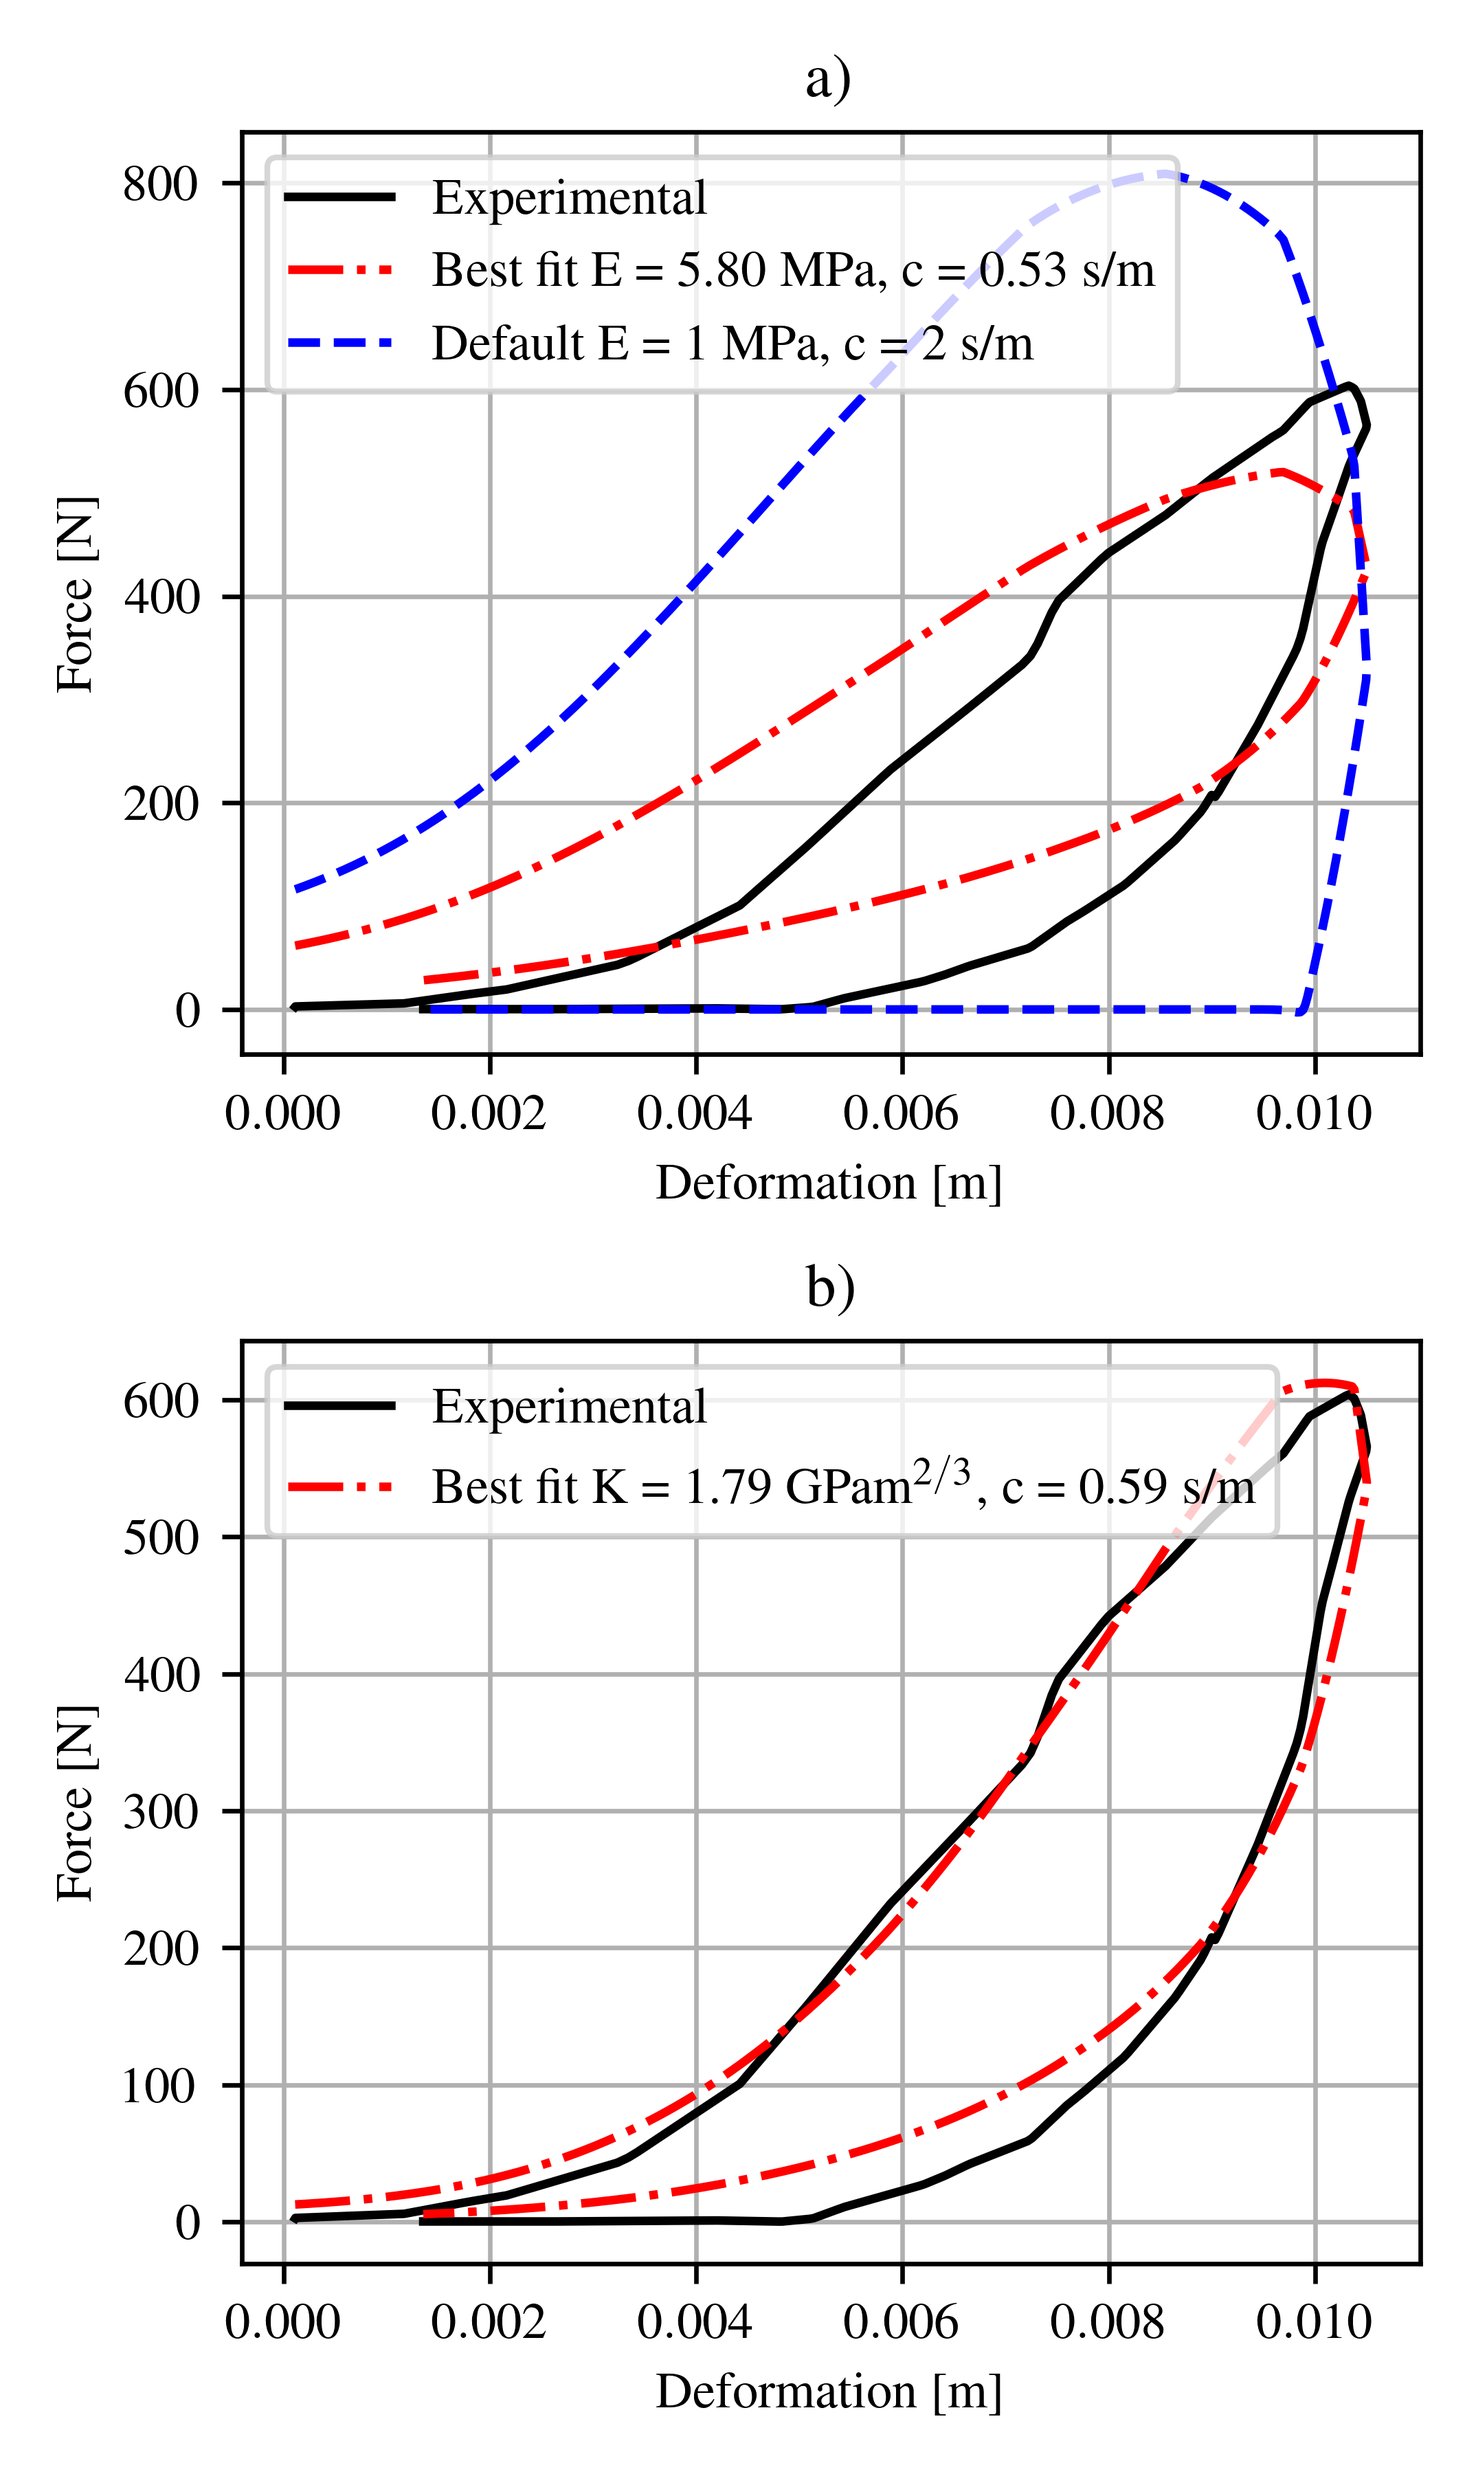
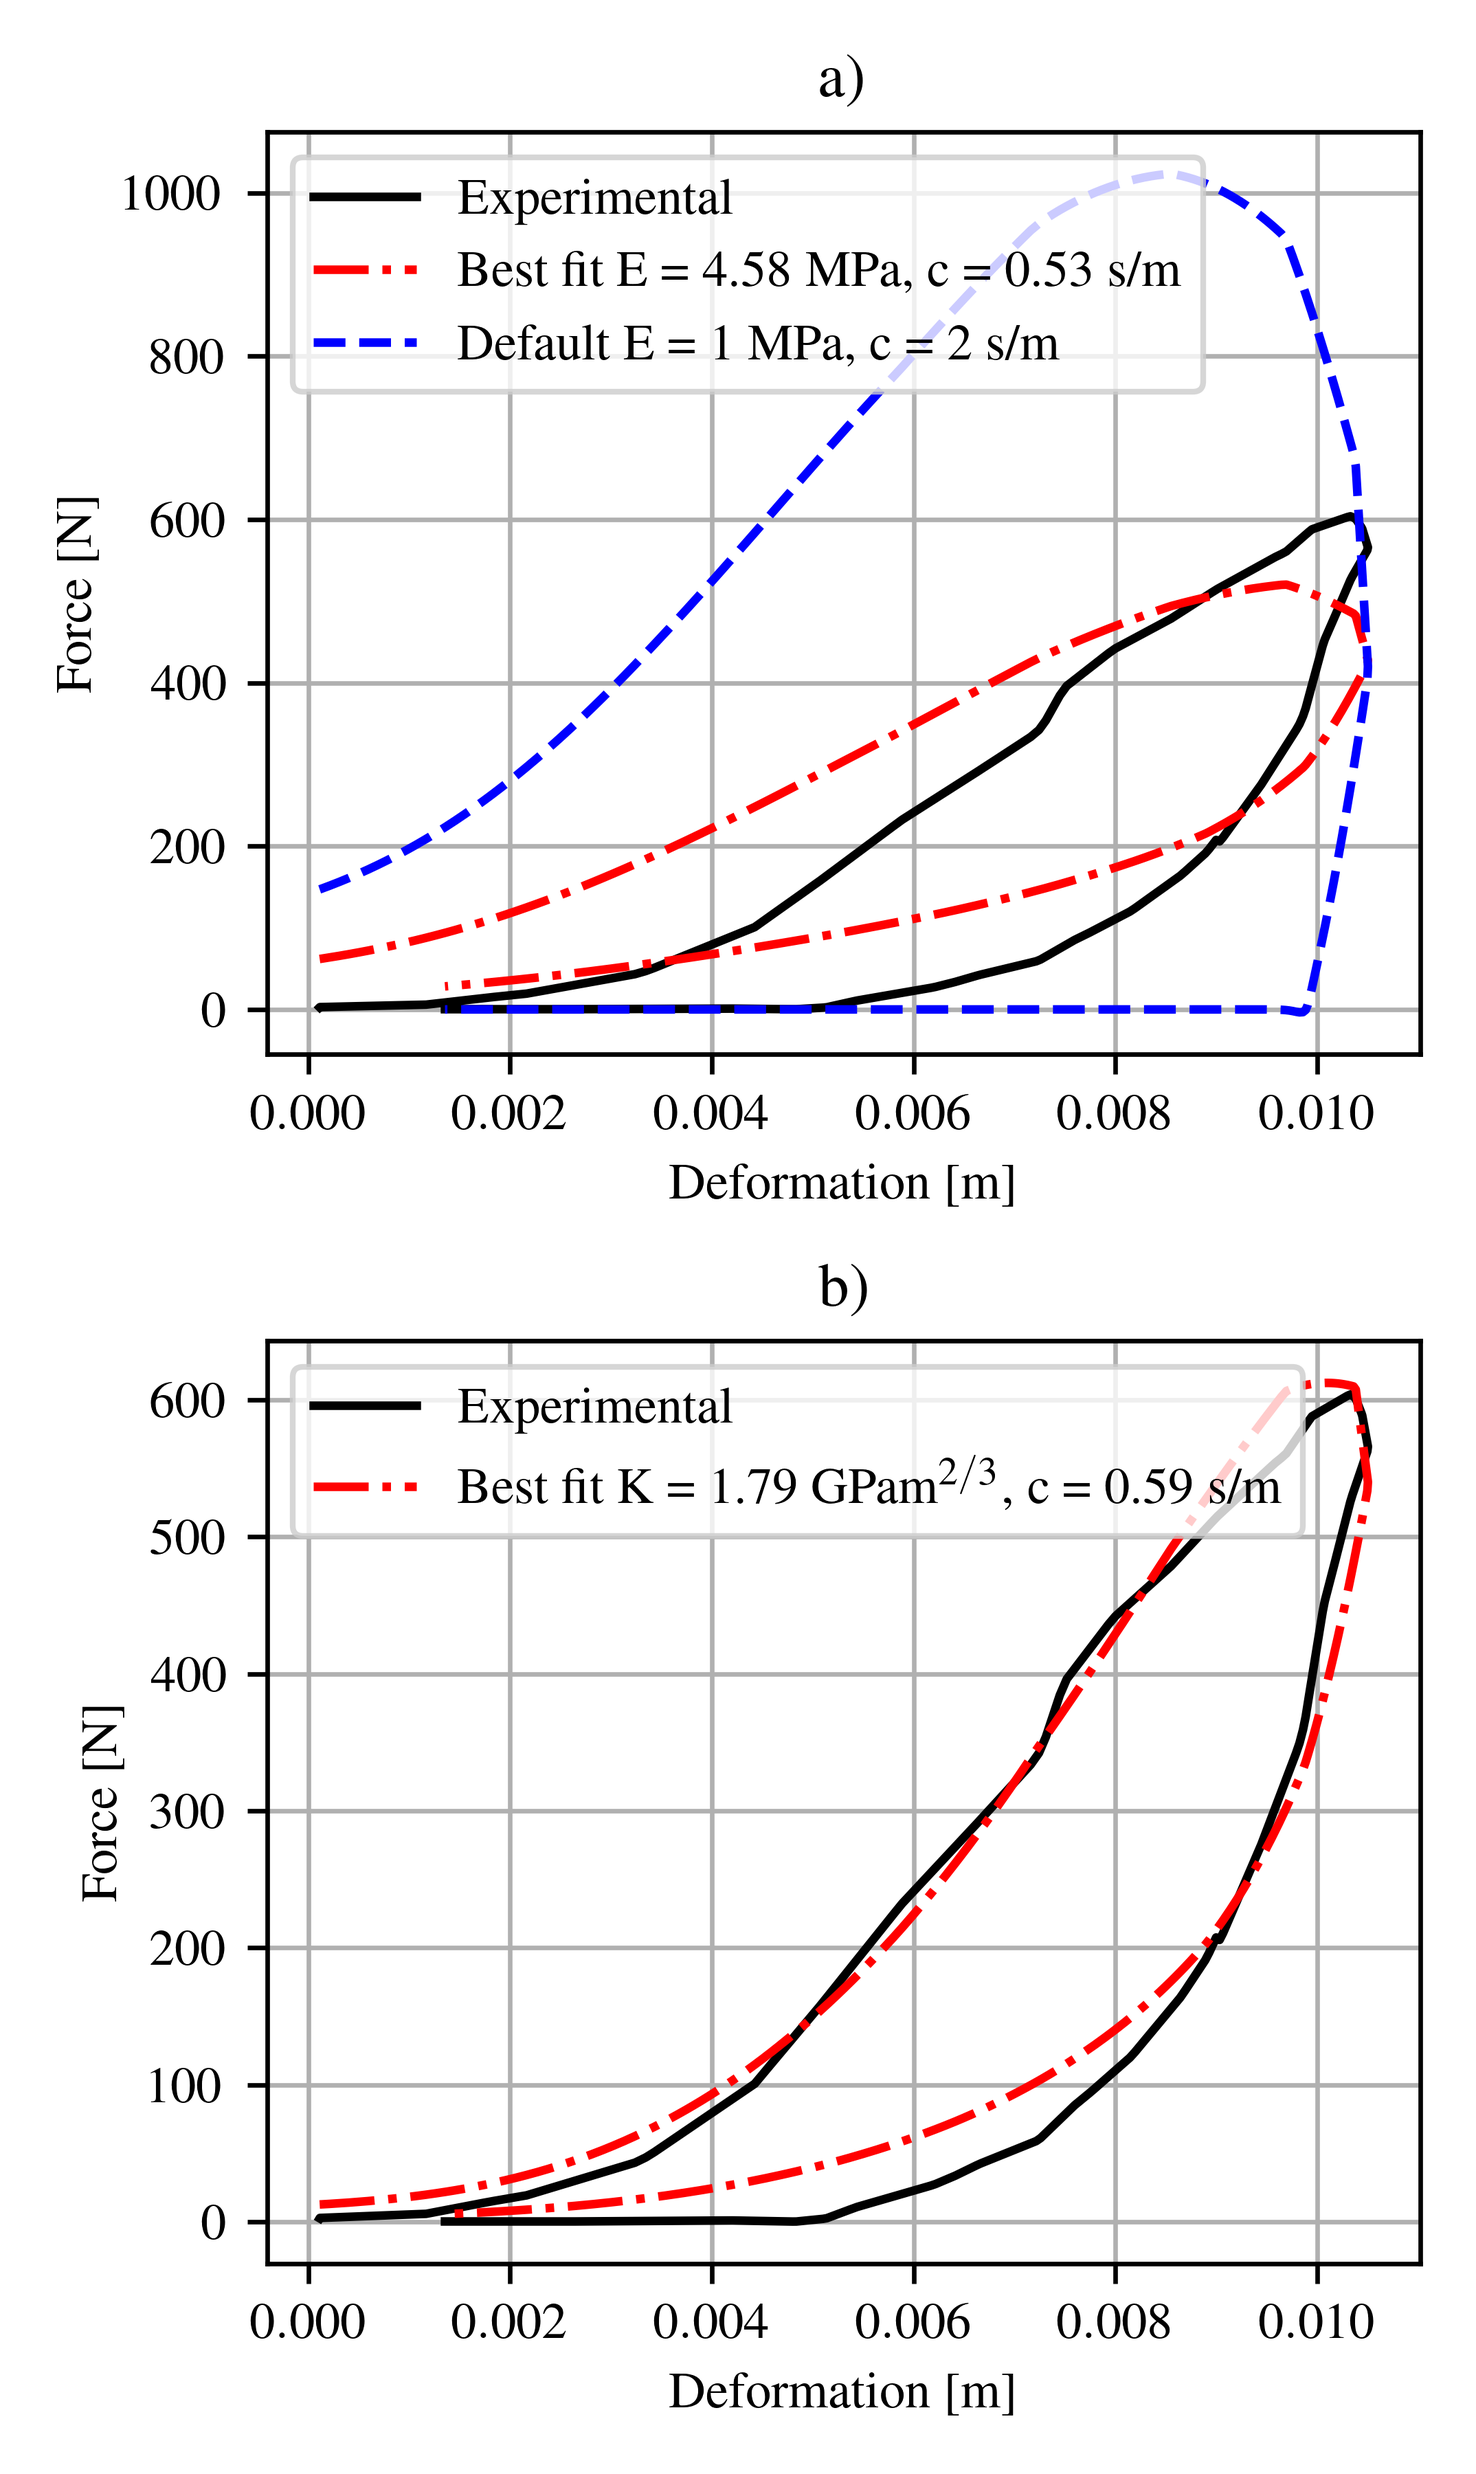
Added exponent

diff --git a/exponent.py b/exponent.py
@@ -1,0 +1,98 @@
+import numpy as np
+import matplotlib.pyplot as plt
+from scipy.optimize import least_squares
+import utils
+from decimal import Decimal
+from scipy import integrate
+
+# This data is from Kinoshita 1993, exported from
+# graphs using online digitizer
+# displacement.csv: time [ms], displacement [mm]. 
+# Is derived by the authors by integrating the acceleration
+# signal that follows
+# deceleration.csv: time [ms], deceleration [G]. 
+# Signal from accelerometer plced on pendulum impacting the heelpad
+
+x_data = np.genfromtxt('data/displacement.csv', delimiter='\t')  # ms , mm
+decel_data = np.genfromtxt('data/deceleration.csv', delimiter='\t')  # ms , G
+
+plt.rcParams['text.usetex'] = True
+# plt.rcParams['font.family'] = 'sans-serif'
+# plt.rcParams['font.sans-serif'] = 'DejaVu Sans'
+
+
+plt.rcParams['font.family'] = 'serif'
+plt.rcParams['font.sans-serif'] = 'Times'
+#plt.rcParams['font.size'] = 14
+
+# Converting to SI units
+x_data[:, 0] = x_data[:, 0] / 1000  # s
+x_data[:,1] = x_data[:, 1] / 1000  # m
+decel_data[:, 0] = decel_data[:, 0] / 1000  # s
+decel_data[:, 1] = decel_data[:, 1] * 9.81  # m/s^2
+
+# Interpolate data to get evenly spaced samples
+# We impose a 40 ms time window
+N = 400
+t = np.linspace(0, 0.04, N)
+x = np.interp(t, x_data[:, 0], x_data[:, 1])
+xddot = np.interp(t, decel_data[:,0], decel_data[:, 1])
+
+# For these data the initial impact veloicty is given in the paper as 0.93 m/s
+# Integrate xddot to get velocity
+# xddot is deceleration, thus the minus sign in the integration
+xdot_init = 0.93
+xdot = integrate.cumulative_trapezoid(-xddot, t, initial=0) + xdot_init
+
+# Normal force from the heel pad is calculated as the product
+# of pendulum mass (5 kg) and deceleration
+mass = 5 
+fN_truth = mass*xddot
+
+
+
+fig,  ax2 = plt.subplots()
+
+#SUBPLOT 2
+ax2.plot(x, fN_truth, label = 'Experimental', color = 'black')
+ax2.set_xlabel('Deformation [m]')
+ax2.set_ylabel('Force [N]')
+ax2.grid()
+ax2.set_title('b)')
+
+# Function to optimize
+def residuals(X, x, xdot, fN_truth): 
+    fN = utils.get_fn_falisse_smooth_3parms(X, x, xdot)
+    return (fN - fN_truth)
+
+# Initial guess
+x0 = np.array([1e5, 5, 3/2])
+#Bounds
+E_lower = 1e1
+E_upper = 1e11
+c_lower = 0
+c_upper = 1e2
+p_lower = 1
+p_upper = 5
+bounds=([E_lower, c_lower, p_lower], [E_upper, c_upper, p_upper])
+res = least_squares(residuals, x0, args=(x, xdot, fN_truth), bounds=bounds)
+print(res)
+print('E = %f, c = %f, p = %f' % (res.x[0], res.x[1], res.x[2]))
+fN = utils.get_fn_falisse_smooth_3parms([res.x[0], res.x[1], res.x[2]], x, xdot)
+
+Edec = Decimal(int(res.x[0]))
+Esci =  '{:.2E}'.format(Edec) 
+ax2.plot(x, fN, '-.',
+        label = 'Best fit K = %.2f $\mathrm{GPa m^{2/3}}$, c = %.2f s/m, p = %.2f' % (res.x[0]/(1e9),res.x[1], res.x[2]),
+        # label = 'Best fit E =' + Esci + ' Pa, c = %.2f s/m' % res.x[1],
+
+        color = 'red', linestyle='-.')
+ax2.legend(loc='upper left')
+
+# fig.set_figwidth(3.58)
+# fig.set_figheight(6.)
+fig.tight_layout()
+# fig.set_facecolor('#DDEAF7')
+
+# plt.savefig('fig/fits.png',dpi=600)
+plt.show()

diff --git a/utils.py b/utils.py
@@ -31,7 +31,7 @@ def get_fn_falisse_smooth(X,x,xdot):
 
     E = X[0]
     c = X[1]
-    R = 0.02
+    R = 0.032
     bd = 300
     bv = 50
     cf = 1e-5
@@ -91,6 +91,7 @@ def get_fn_custom_smooth(X,x,xdot):
 
     return fN
 
+
 def get_fn_falisse_smooth_3parms(X,x,xdot):
     """
     function to get the hunt crossley normal force, for impact experiments
@@ -99,26 +100,25 @@ def get_fn_falisse_smooth_3parms(X,x,xdot):
     x = indentation or deformation over time
     xdot = deformation velocity over time (must be known)
 
-    fN = (a*x**2)*(1+b*xdot)
     """
+
     E = X[0]
     c = X[1]
     p = X[2]
-    cf = 1e-5
-    R = 0.02
+    R = 0.032
     bd = 300
     bv = 50
-    k = 1/2 * E**(2./3.)
-    k = 1/2 * E**(2./3.)
-    #fHz = (4/3)*k*sqrt(R*k)*x**(3)
+    cf = 1e-5
+
+
     fHz = np.zeros(len(x))
     for i in range(len(x)):
-        fHz[i] = (4/3)*k*sqrt(R*k)*(sqrt(x[i]*x[i] +cf)**(p))
+        fHz[i] = (4/3)*E*sqrt(R)*(sqrt(x[i]*x[i] +cf)**(p))
+
     fHz_smooth = np.zeros(len(fHz))
     for i in range(len(x)):
         fHz_smooth[i] = fHz[i]*(0.5 +0.5*tanh(bd*(x[i])))
 
-
     fHc = fHz_smooth*(1 +1.5*c*xdot)
 
     fHc_smooth = np.zeros(len(fHc))
@@ -130,40 +130,3 @@ def get_fn_falisse_smooth_3parms(X,x,xdot):
     return fN
 
 
-def get_fn_falisse_smooth_6parms(X,x,xdot):
-    """
-    function to get the smoothed hertz hunt crossley normal force
-    with six optimizable parameters
-    E = X[0]
-    c = X[1]
-    p = X[2]
-    bd = X[3]
-    bv = X[4]
-    cf = X[5]
-    """
-    E = X[0]
-    c = X[1]
-    p = X[2]
-    R = 0.03
-    bd = X[3]
-    bv = X[4]
-    cf = X[5]
-    k = 1/2 * E**(2./3.)
-      
-    fHz = np.zeros(len(x))
-    for i in range(len(x)):
-        fHz[i] = (4/3)*k*sqrt(R*k)*(sqrt(x[i]*x[i] + cf )**(p))
-
-    fHz_smooth = np.zeros(len(fHz))
-    for i in range(len(x)):
-        fHz_smooth[i] = fHz[i]*(0.5 +0.5*tanh(bd*x[i]))
-        
-    fHc = fHz_smooth*(1 +1.5*c*xdot)
-
-    fHc_smooth = np.zeros(len(fHc))
-    for i in range(len(xdot)):
-        fHc_smooth[i] = fHc[i]*(0.5 + 0.5*tanh(bv*(xdot[i]+ (2./(3.*c)))))
-
-    fN = fHc_smooth
-
-    return fN

diff --git a/README.md b/README.md
@@ -4,6 +4,10 @@
 - Performs a least squares fit for the parameters $(E, c)$  minimizing the error between experimental restoring force, and force computed according to the HC model.
 - The same is done with the proposed novel contact model
 
+# exponent.py
+
+- Identical as main, but optimizes also the exponent p
+
 # data_comparison.py
 
 - Computes the force-deformation loops according to several models il the literature and compares it to experimental datasets. bone present [2].
